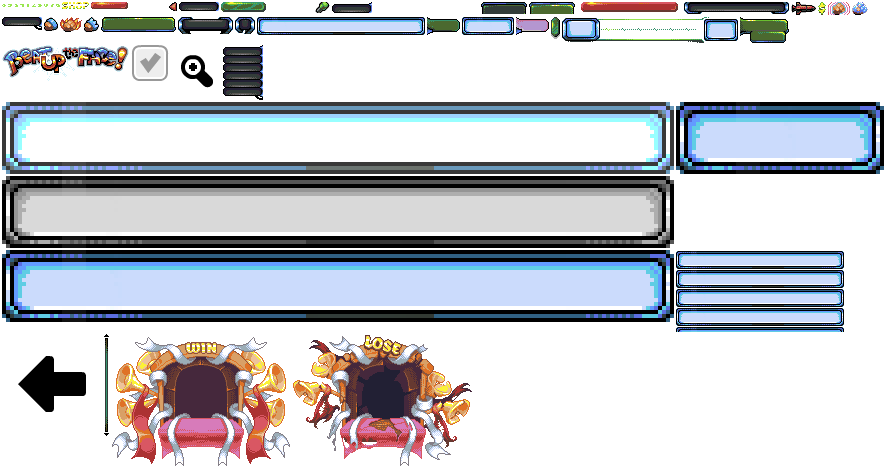
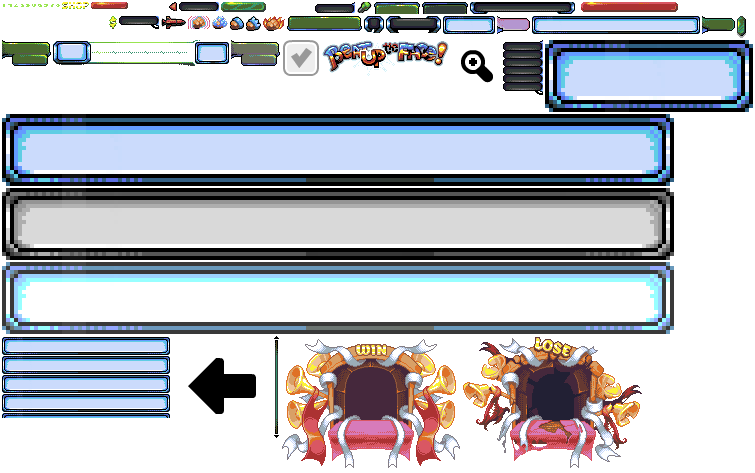
add shop button for BuyBuildingsMenu

diff --git a/Classes/Beatup.cpp b/Classes/Beatup.cpp
@@ -396,26 +396,12 @@ void Beatup::switch_to_character_menu(spFighter fighter)
 
 void Beatup::switch_to_shop()
 {
+    auto scene = Scene::create();
+    BuyBuildingsNuMenu* building_menu = BuyBuildingsNuMenu::create(this);
+    scene->addChild(building_menu);
+
     auto director = Director::getInstance();
-
-    if (this->shop_scene == NULL)
-    {
-        this->shop_scene = Scene::create();
-    }
-    if (this->shop == NULL)
-    {
-        this->shop = BaseMenu::create();
-        this->shop->beatup = this;
-        this->shop->menu_init();
-        this->shop->update(0);
-
-        this->shop_scene->addChild(this->shop);
-        this->shop->beatup_scene = director->getRunningScene();
-    };
-
-    this->shop->set_main_lbl();
-
-    director->pushScene(this->shop_scene);
+    director->pushScene(scene);
 };
 
 bool Beatup::onTouchBegan(cocos2d::Touch* touch, cocos2d::Event* event)
@@ -777,6 +763,33 @@ void Beatup::prep_other()
 
     this->shop = NULL;
     this->shop_scene = NULL;
+
+    auto shop_button = ui::Button::create(
+            "shop_banner.png",
+            "shop_banner_hili.png",
+            "shop_banner.png",
+            ui::TextureResType::PLIST
+            );
+    auto text_shop = ui::ImageView::create(
+        "text_shop.png",
+        ui::TextureResType::PLIST
+        );
+    text_shop->setPosition(Vec2(28, 17));
+    shop_button->addChild(
+        text_shop
+    );
+    shop_button->setScale(4);
+    auto center_pos = this->get_center_pos();
+    shop_button->setPositionX(100.0f);
+    shop_button->setPositionY(center_pos.y * 2 * 0.85f);
+
+    shop_button->addTouchEventListener([this](Ref*, ui::Widget::TouchEventType evt)
+    {
+        if (evt == ui::Widget::TouchEventType::ENDED)
+        this->switch_to_shop();
+    });
+
+    this->addChild(shop_button);
 
 
     this->enemy_node = FighterNode::create(this, NULL);
